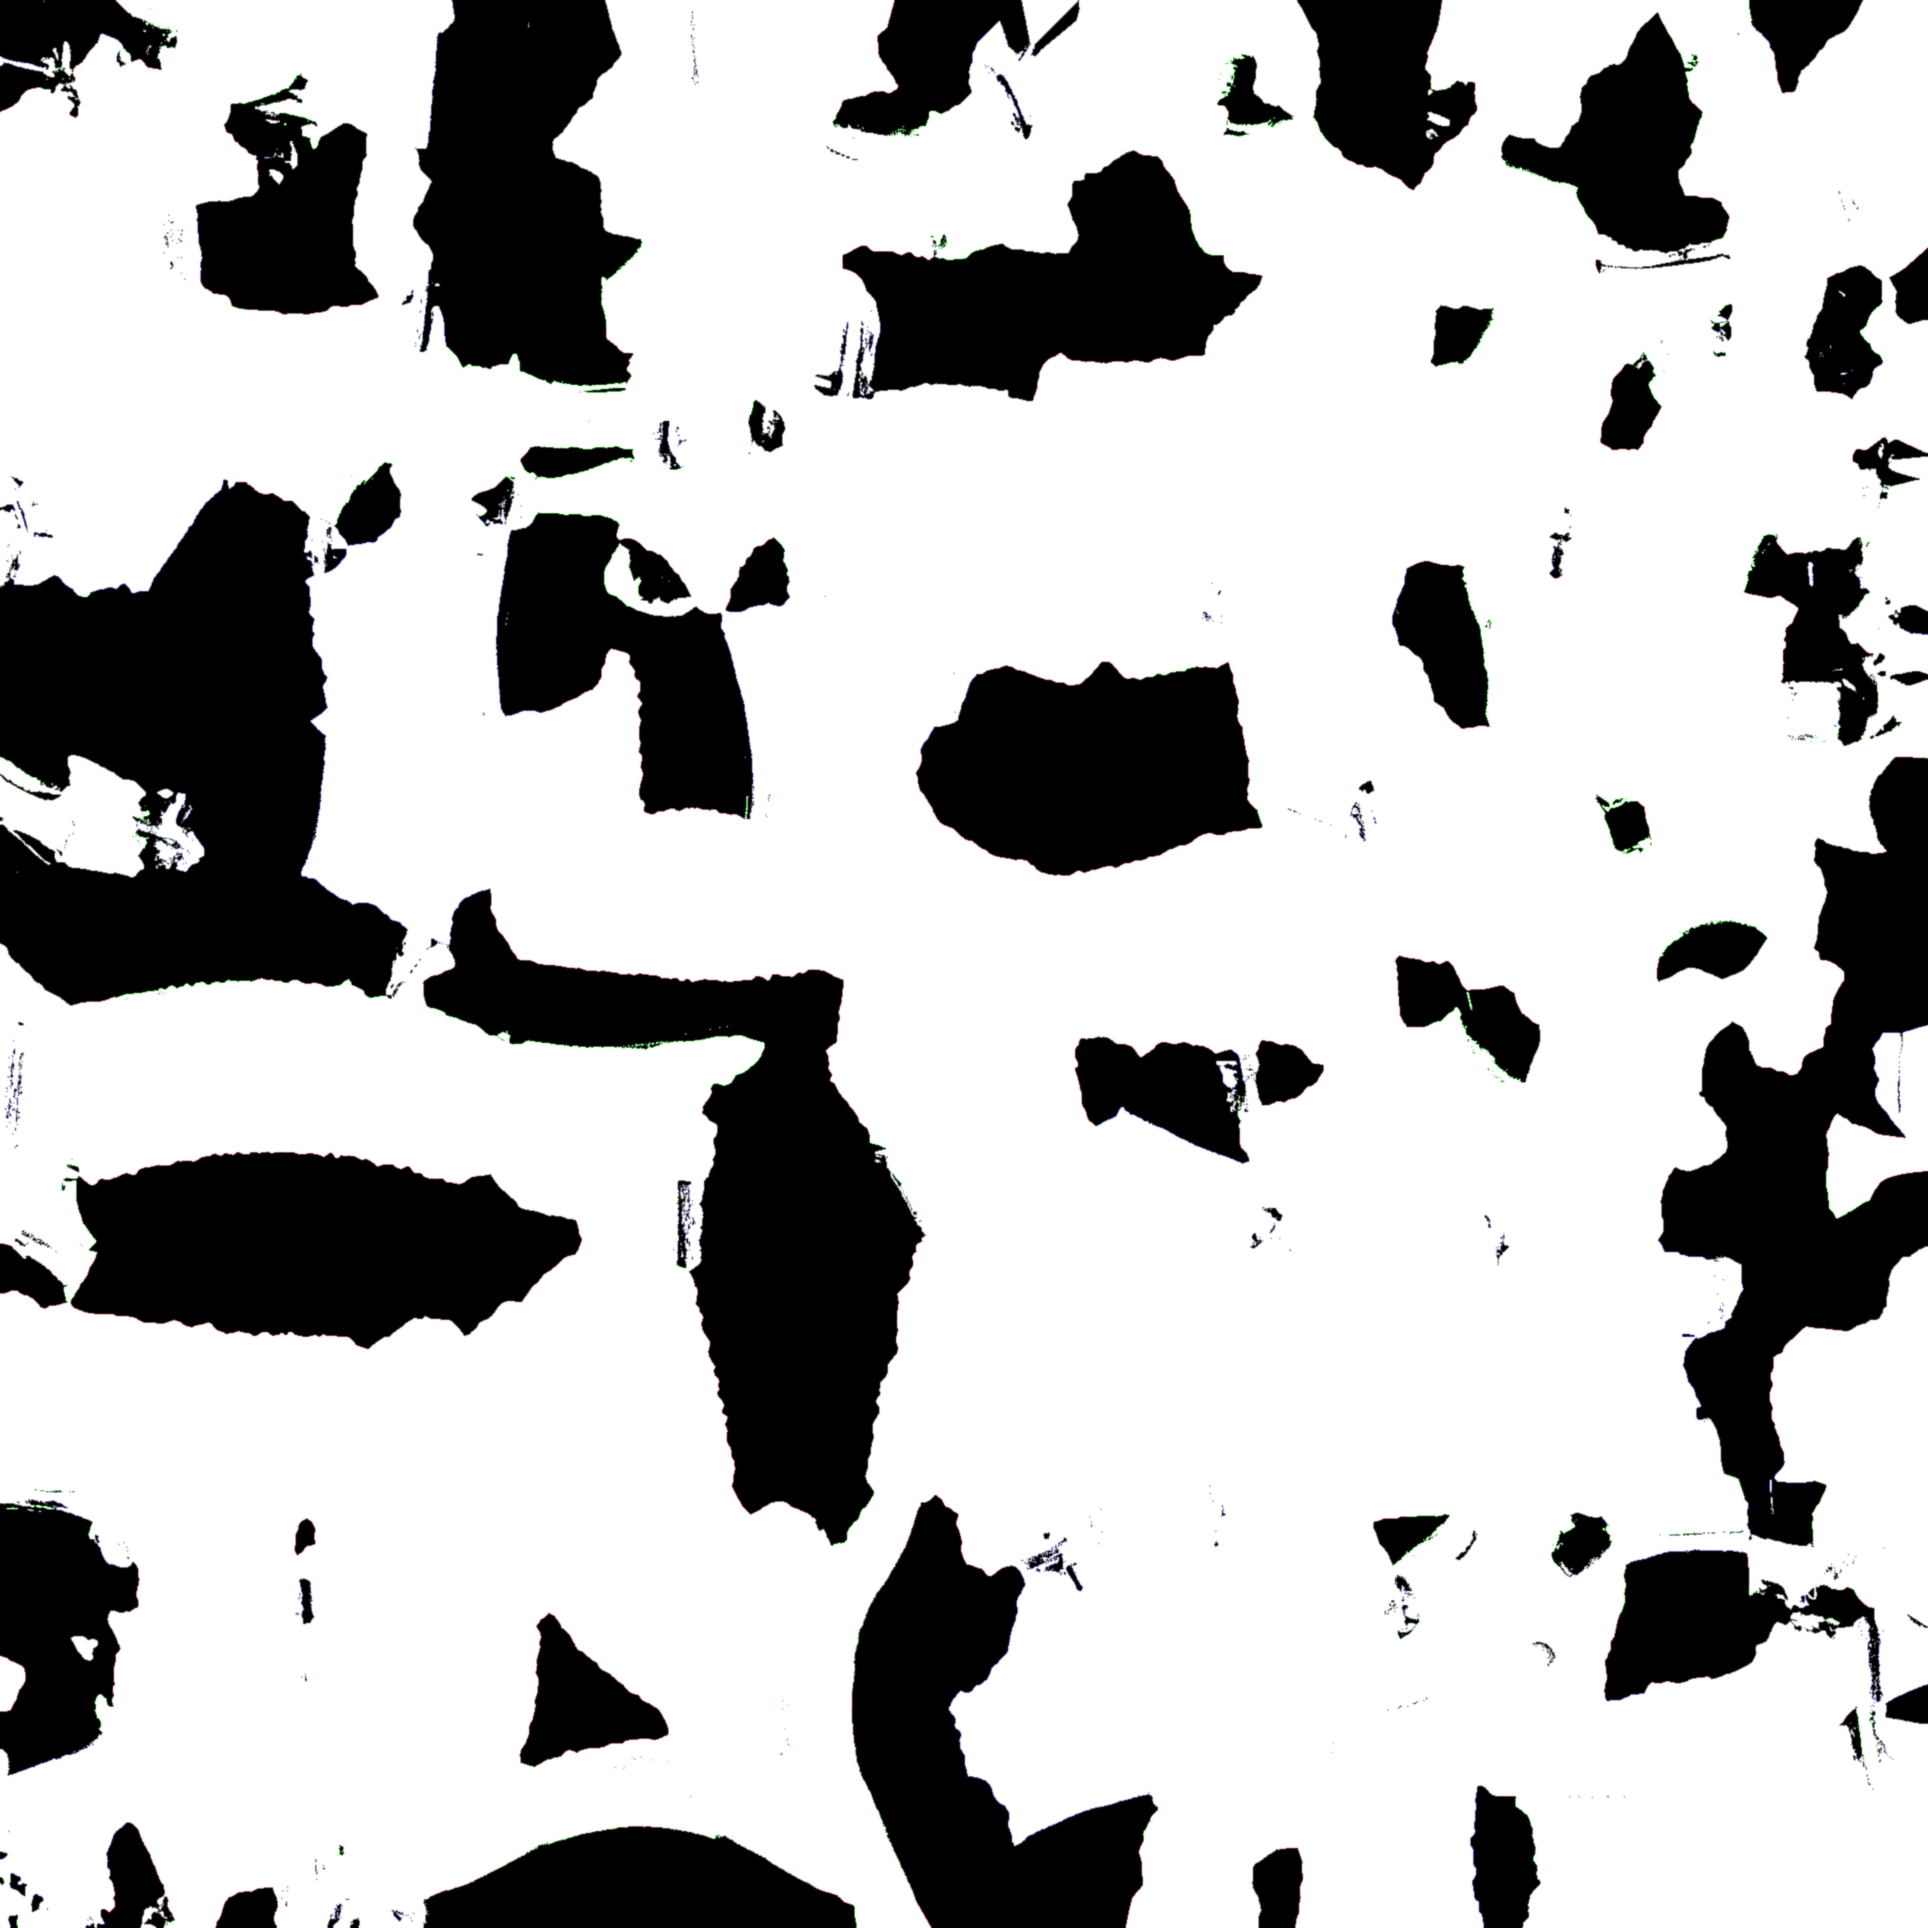
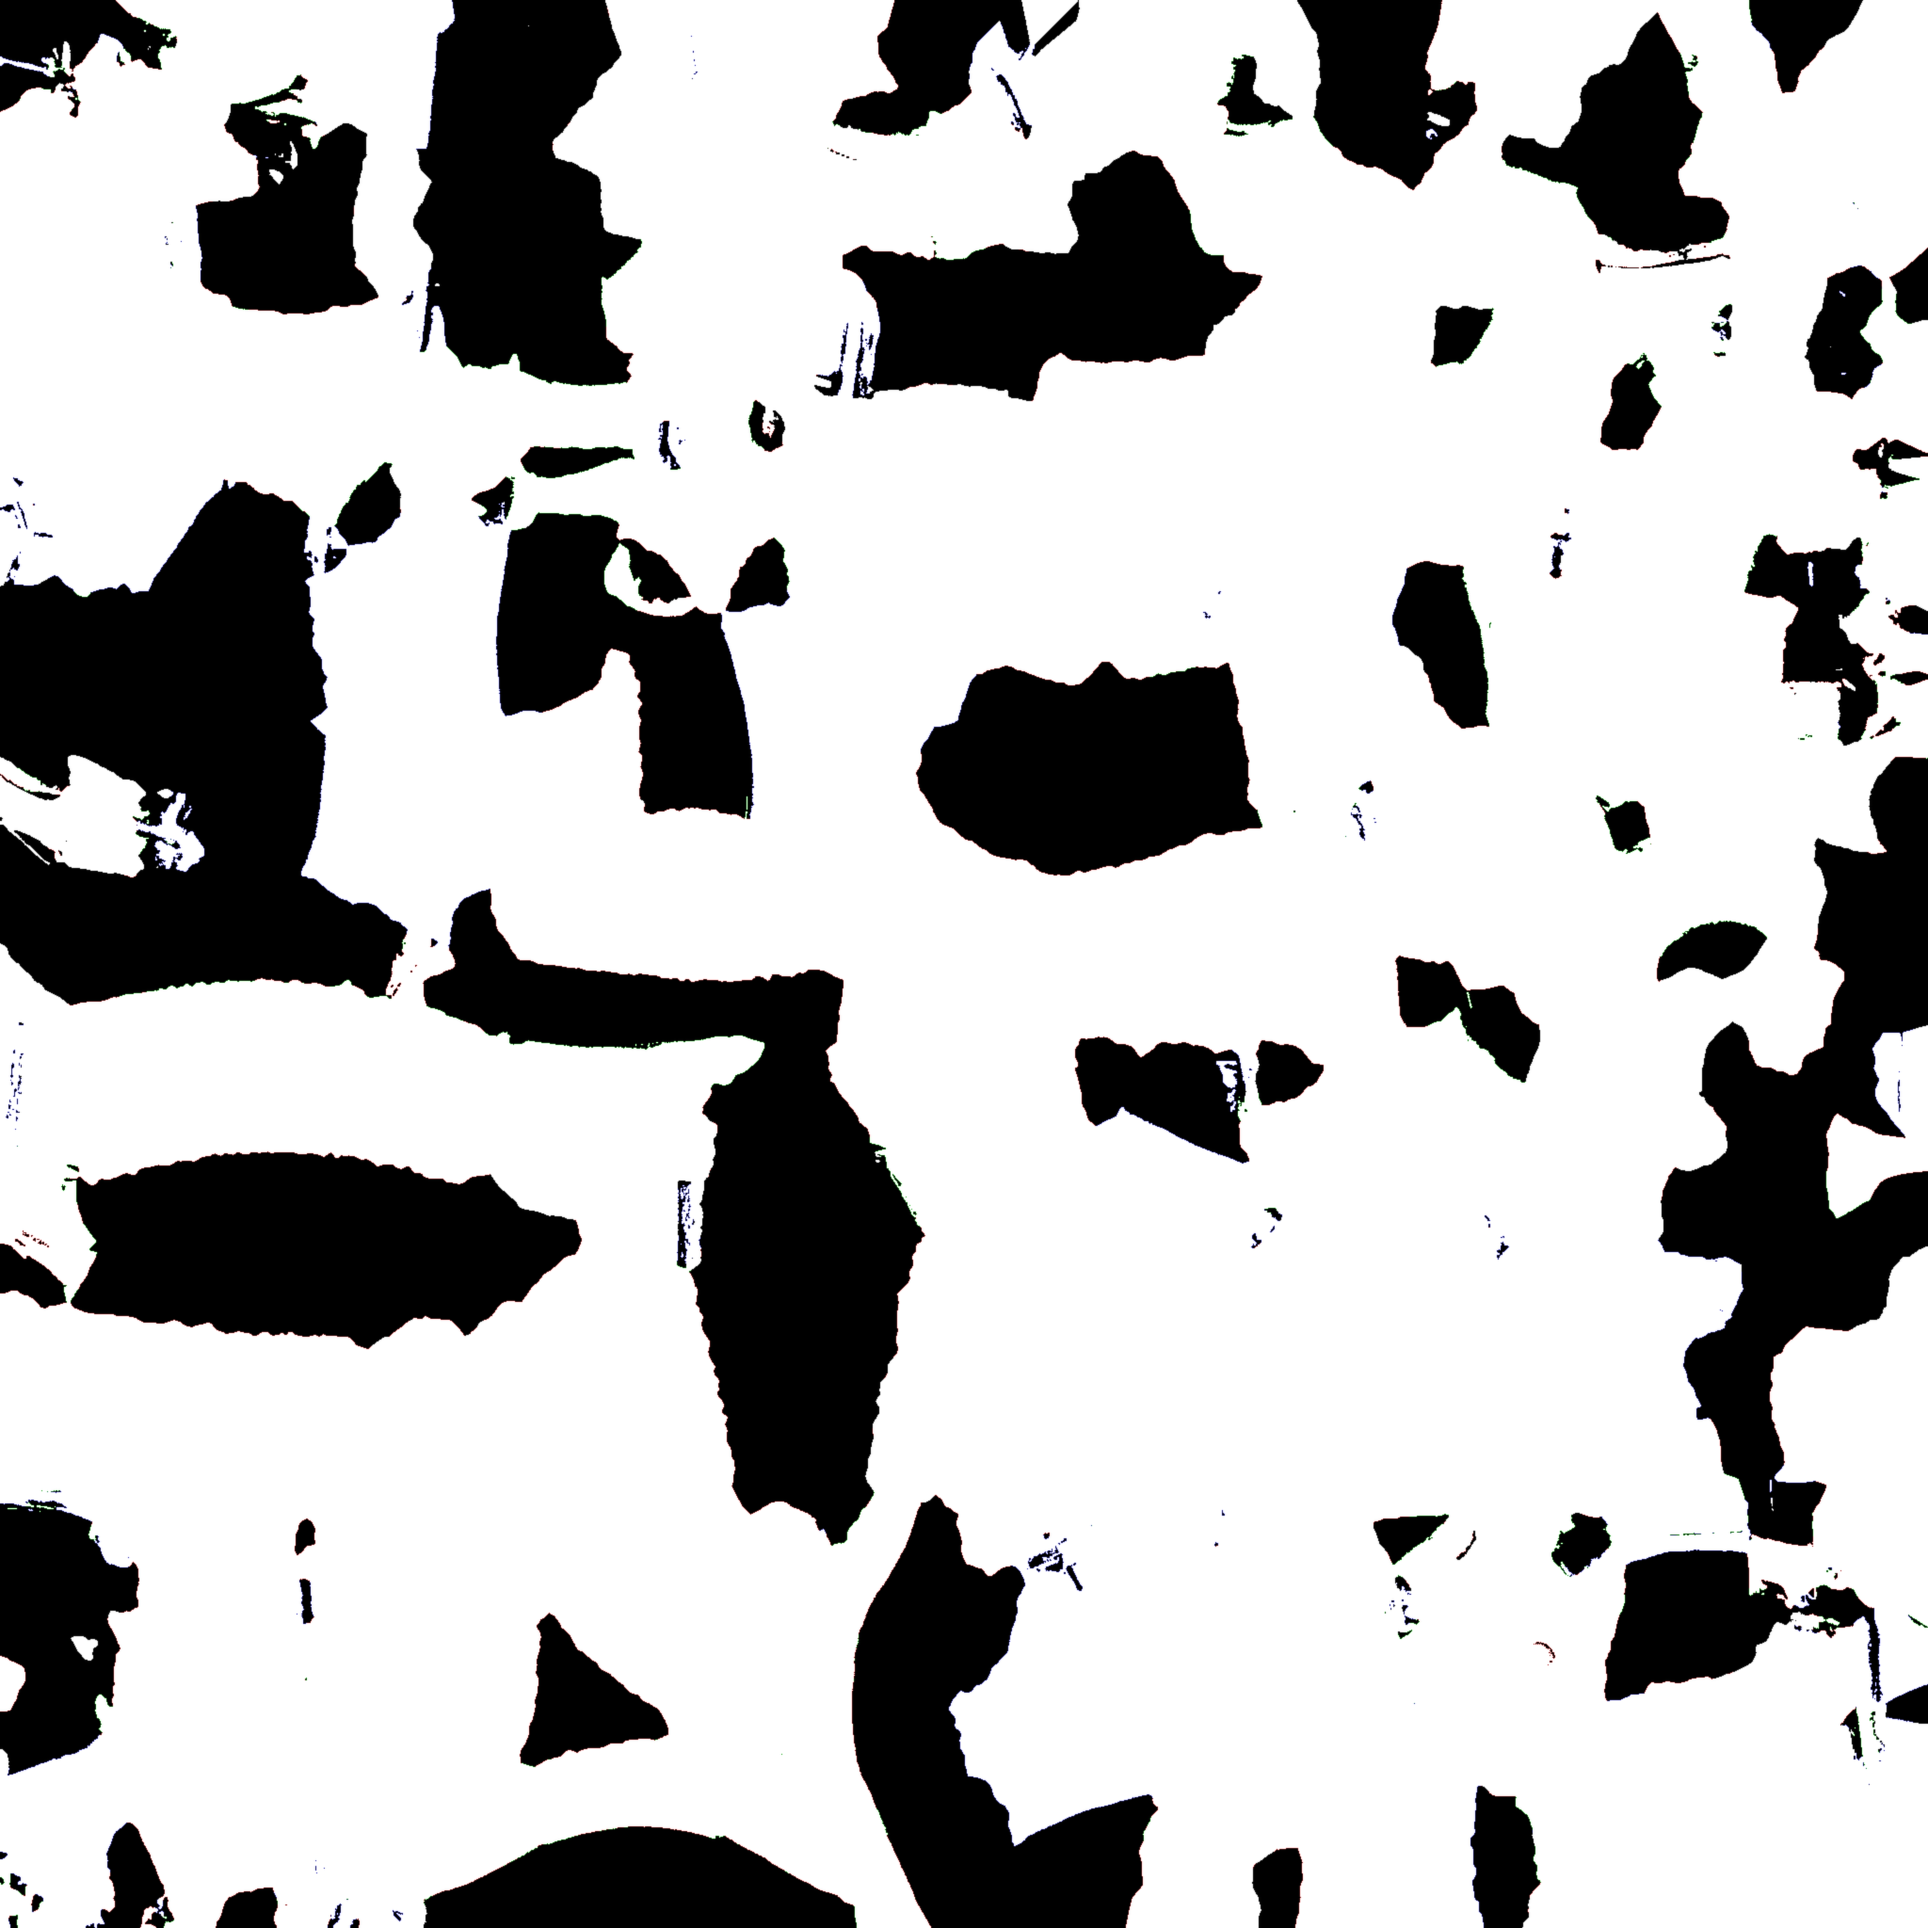
0.10.2-beta: clean kits, no dirt layer
The owner asked for the dirt layer to go. The kit is the county's colour
alone; the texture's creases and grime no longer scale it. The streaks left
came from the kit mask thinning along the model's UV seams and picking up the
next piece of the atlas: the shader now lets the strongest part win and fills
a point that is mostly kit, and tools/player/clean_mask.py fills the mask's
thin gaps and small holes and grows the kit 2 px past its edges (all three
masks). Every level; the skin keeps its texture.

Claude-Session: https://claude.ai/code/session_014hG8tsaKWnsFdAR9yvDKpG

Changed region(s): [[0.5312, 0.7812, 0.5625, 0.8125], [0.3438, 0.625, 0.375, 0.6562], [0.0625, 0.4062, 0.0938, 0.4375]]

diff --git a/hurling-game/tools/player/clean_mask.py b/hurling-game/tools/player/clean_mask.py
@@ -1,0 +1,76 @@
+#!/usr/bin/env python3
+"""Cleans the kit mask (make_textures.py) so every county's colours cover the whole kit: the mask is found from the
+texture's colours, and the kit's folds, shadows and the edges of its UV islands fall outside them, so the model's
+own texture (its green, white and grey) showed through the county's colours as streaks and smudges.
+
+From the 2048 mask (ultra/player/hero_mask_2k.png): each pixel's part (jersey, trim, shorts, skin or none). Small
+patches of one part inside another become the part round them (a pale fold on a jersey had been read as the white
+shorts and painted the shorts' colour; small gold flecks as trim); thin runs and small holes of none beside the kit
+become the nearest kit part (big none areas, the helmet, the guard and the boots, stay as they are; nothing becomes
+skin); then the kit is grown 2 px into what is left, so a texture sample at an island's edge does not pick up the
+gutter. Written back at 2048, 1024 (hero_mask_hd.png) and 512
+(hero_mask.png), shrunk and softened as make_textures.py does.
+
+Usage: python3 tools/player/clean_mask.py      (from hurling-game/; needs Pillow, numpy, scipy)
+"""
+import numpy as np
+from PIL import Image, ImageFilter
+from scipy import ndimage
+
+SRC = "ultra/player/hero_mask_2k.png"
+NEAR = 8          # px at 2048: how far a hole may be from the kit it joins
+SMALL = 1500      # px at 2048: a none area this small, inside or beside the kit, is a hole
+# px at 2048: a patch of a part this small, with another kit part all round it, is that part (the trim's numbers and
+# bands are larger than its limit).
+PATCH = {1: 4000, 2: 250, 3: 4000, 4: 1500}
+
+
+def main():
+    m = np.asarray(Image.open(SRC).convert("RGBA")).astype(np.float32) / 255.0
+    part = np.where(m.max(axis=2) > 0.5, m.argmax(axis=2) + 1, 0)      # 1 jersey, 2 trim, 3 shorts, 4 skin, 0 none
+    ring = np.ones((5, 5), bool)
+    moved = 0
+    for k, limit in PATCH.items():
+        lab, n = ndimage.label(part == k)
+        if n == 0:
+            continue
+        sizes = ndimage.sum(part == k, lab, index=np.arange(1, n + 1))
+        objs = ndimage.find_objects(lab)
+        for i in np.nonzero(sizes < limit)[0]:
+            sl = tuple(slice(max(0, s.start - 3), s.stop + 3) for s in objs[i])
+            blob = lab[sl] == i + 1
+            edge = ndimage.binary_dilation(blob, structure=ring) & ~blob
+            around = part[sl][edge]
+            kits = around[(around >= 1) & (around <= 3) & (around != k)]
+            # Taken over only when nearly all round it is one other kit part.
+            if kits.size and kits.size >= 0.9 * around.size:
+                vals, counts = np.unique(kits, return_counts=True)
+                part[sl][blob] = vals[counts.argmax()]
+                moved += int(blob.sum())
+    print(f"patches moved to the part round them: {moved / part.size * 100:.2f}% of the atlas")
+    none = part == 0
+    disk = np.hypot(*np.mgrid[-4:5, -4:5]) <= 4
+    thin = none & ~ndimage.binary_opening(none, structure=disk)
+    lab, n = ndimage.label(none)
+    sizes = ndimage.sum(none, lab, index=np.arange(1, n + 1))
+    small = none & np.isin(lab, np.nonzero(sizes < SMALL)[0] + 1)
+    kit = (part >= 1) & (part <= 3)
+    dist, (iy, ix) = ndimage.distance_transform_edt(~kit, return_indices=True)
+    nearest = part[iy, ix]
+    fill = (thin | small) & (dist <= NEAR)
+    out = part.copy()
+    out[fill] = nearest[fill]
+    # Grown 2 px into what is still none.
+    grow = (out == 0) & (dist <= 2)
+    out[grow] = nearest[grow]
+    print(f"filled {fill.mean() * 100:.2f}% of the atlas, grown {grow.mean() * 100:.2f}%")
+    chans = [(out == k).astype(np.uint8) * 255 for k in (1, 2, 3, 4)]
+    Image.merge("RGBA", [Image.fromarray(c).filter(ImageFilter.GaussianBlur(0.6)) for c in chans]).save(SRC, optimize=True)
+    for size, name in [(1024, "assets/player/hero_mask_hd.png"), (512, "assets/player/hero_mask.png")]:
+        Image.merge("RGBA", [Image.fromarray(c).resize((size, size), Image.BOX).filter(ImageFilter.GaussianBlur(0.6))
+                             for c in chans]).save(name, optimize=True)
+        print("wrote", name)
+
+
+if __name__ == "__main__":
+    main()

diff --git a/hurling-game/docs/PROGRESS.md b/hurling-game/docs/PROGRESS.md
@@ -232,6 +232,16 @@ file's source, author and licence; `tools/audio/sounds.py` downloads, trims, lev
 - Size: 300 KB of audio before, 596 KB after; the APK 39.65 MB before (0.6.0), see the release for after.
 - Test: every file in assets/audio loads, every sound the game plays is there, the beds loop.
 
+## Done (0.10.2-beta, clean kits, 26 October 2026)
+
+The owner asked for the dirt layer to go. The kit is now the county's colour alone (the texture's creases and grime
+no longer scale it), and the streaks that were left came from the mask: along the model's UV seams it thinned and
+picked up the next piece of the atlas, so the model's texture or the shorts' white showed through. The shader now
+lets the strongest part win and fills a point that is mostly kit (`game/hero_body.gd`), and
+`tools/player/clean_mask.py` fills the mask's thin gaps and small holes and grows the kit 2 px past its edges (all
+three masks). Every level; the skin keeps its texture (the faces). Some mottling stays at the sock tops, where the
+model's texture has gold bands.
+
 ## Done (0.10.0-beta, Ultra graphics, 26 October 2026)
 
 The owner asked for an Ultra level for high-end phones, with Low, Medium and High left exactly as they were

diff --git a/hurling-game/README.md b/hurling-game/README.md
@@ -4,7 +4,7 @@ Hurling for Android phones, built with [Godot 4.7](https://godotengine.org) (fre
 the same way as Kabaddi Raid and Takraw Smash. It plays the GAA's playing rules as they stand in 2026, fifteen a side,
 for the people who play and follow hurling: Ireland, and the Irish abroad. In English and in Irish.
 
-> **Status: playable beta (0.10.1).** The hurlers are the owner's own model, animated with four Mixamo clips and a
+> **Status: playable beta (0.10.2).** The hurlers are the owner's own model, animated with four Mixamo clips and a
 > CMU motion-capture walk and jog (`tools/mocap/`), baked for phones (`tools/player/`); the officials and the
 > crowd's fans are Meshy models baked the same way (`game/person_body.gd`, `tools/crowd/`). Everything else is the
 > game as it will ship.

diff --git a/hurling-game/docs/BETA.md b/hurling-game/docs/BETA.md
@@ -9,6 +9,11 @@
 
 Each new beta installs over the last and keeps your saves.
 
+## New in 0.10.2
+
+- **Clean kits** on every graphics level: the grime and the streaks of the model's own texture are gone from the
+  shirts, shorts and helmets; each county's colours are solid.
+
 ## New in 0.10.1
 
 - The HD pack has a release of its own, so the beta page is new with every build again (Obtainium sees each beta).
